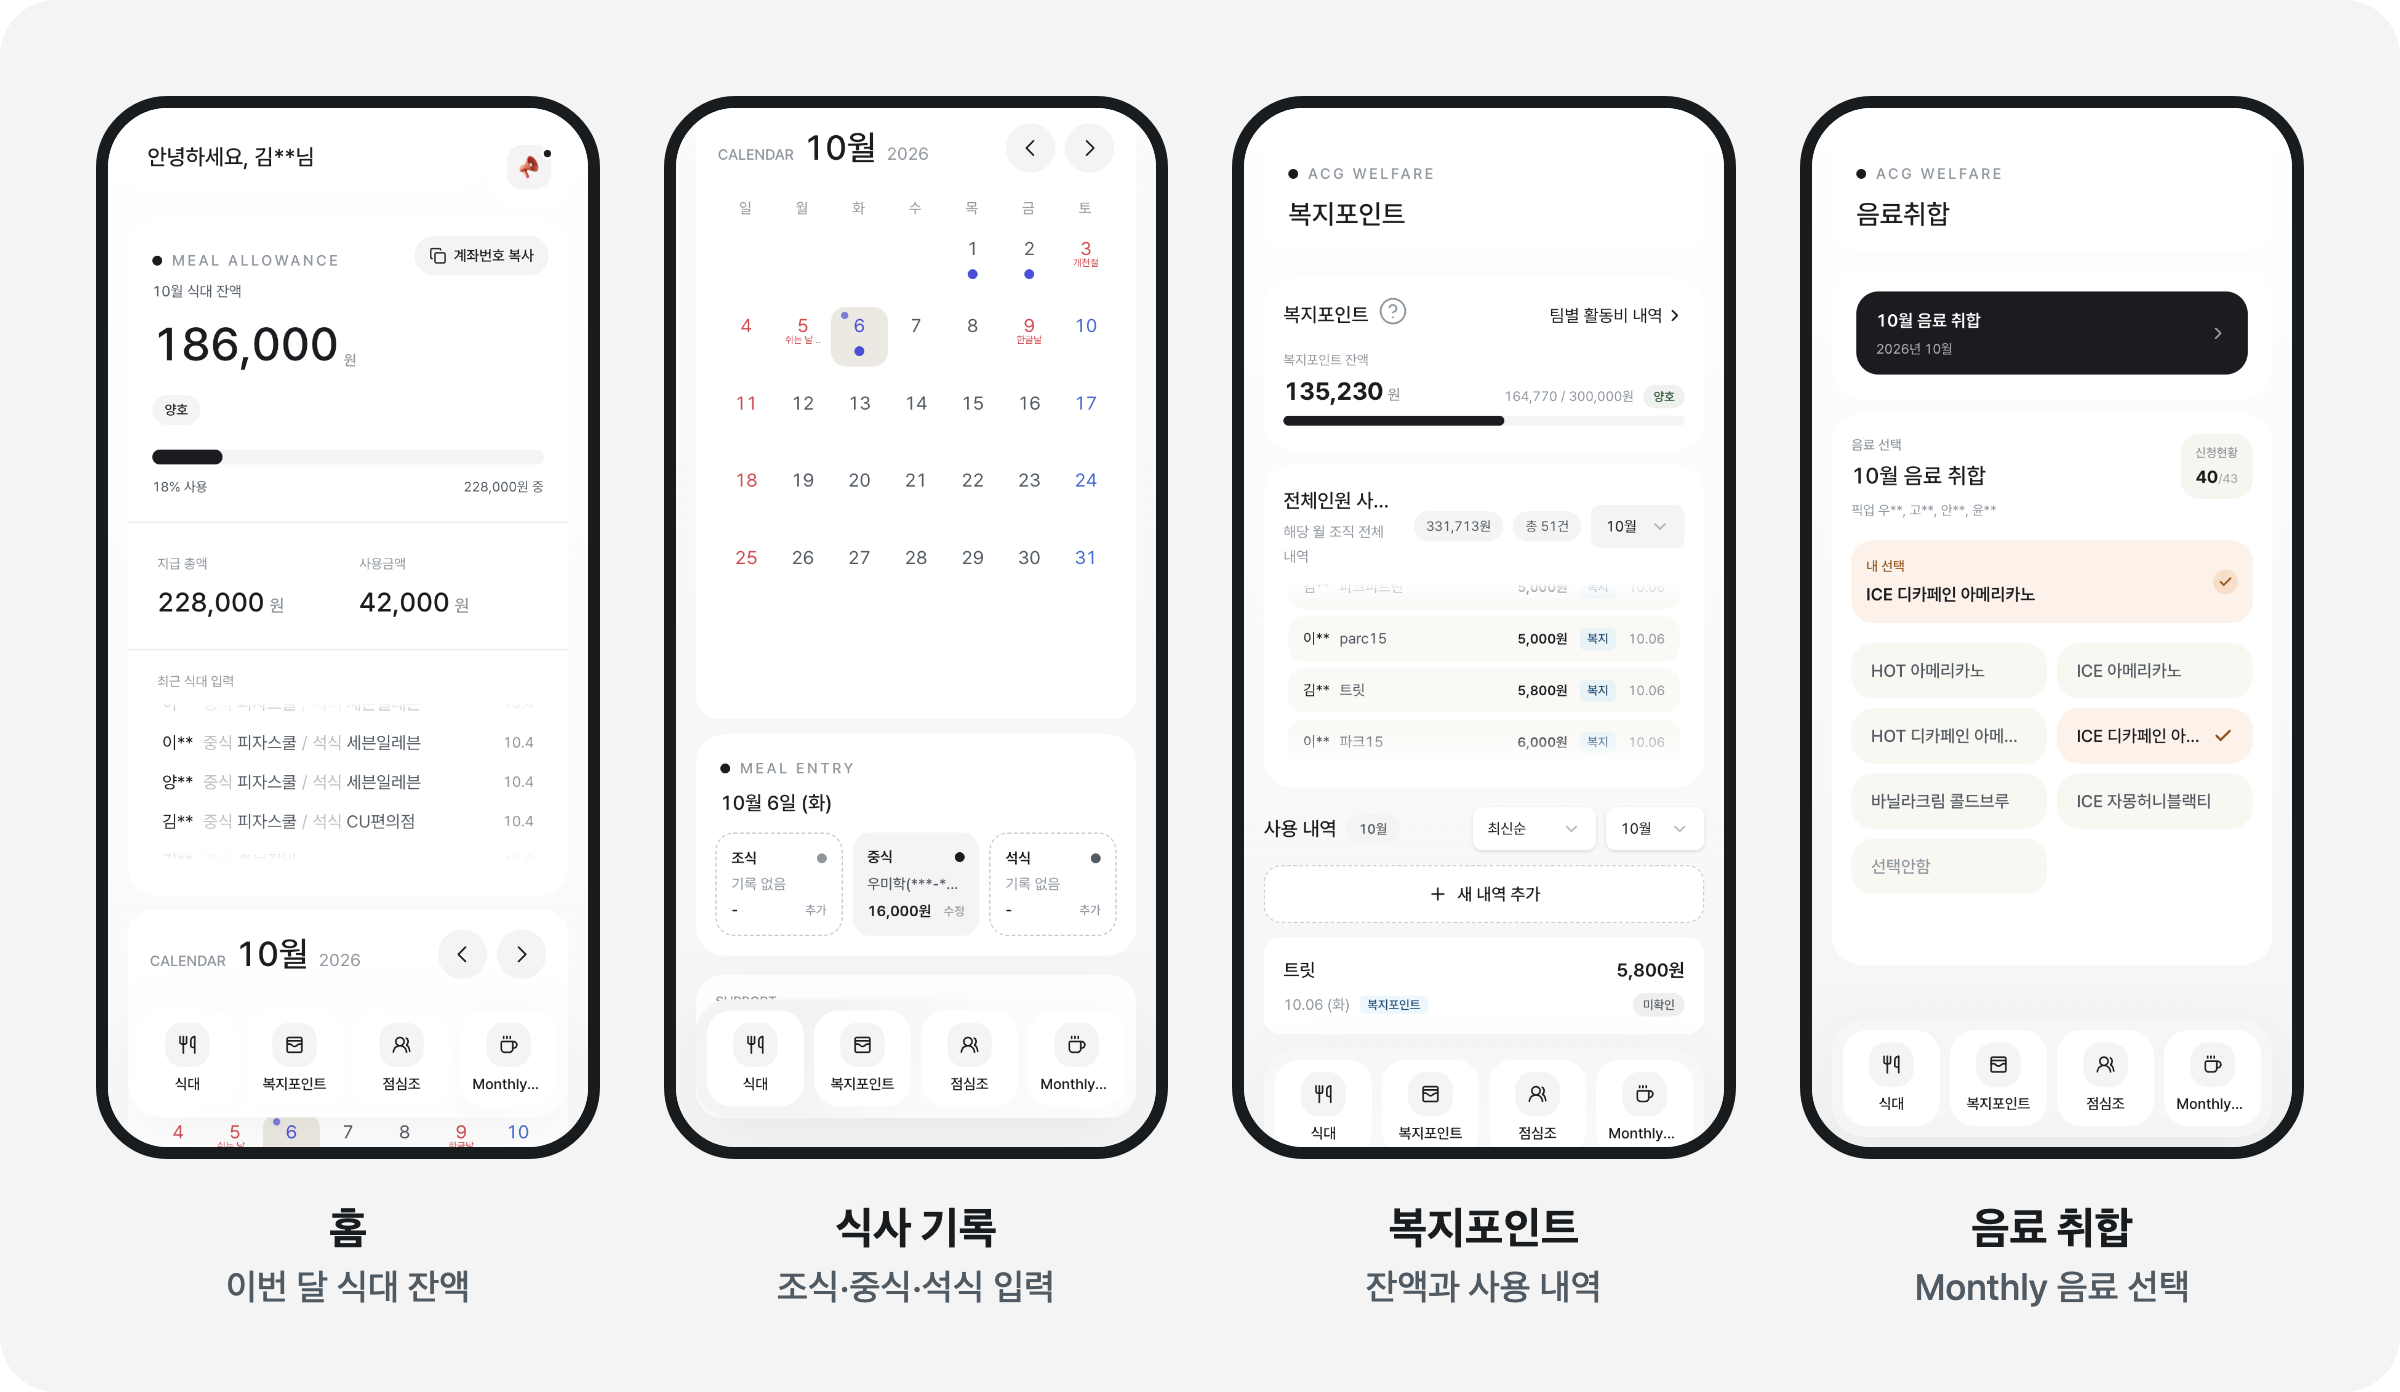
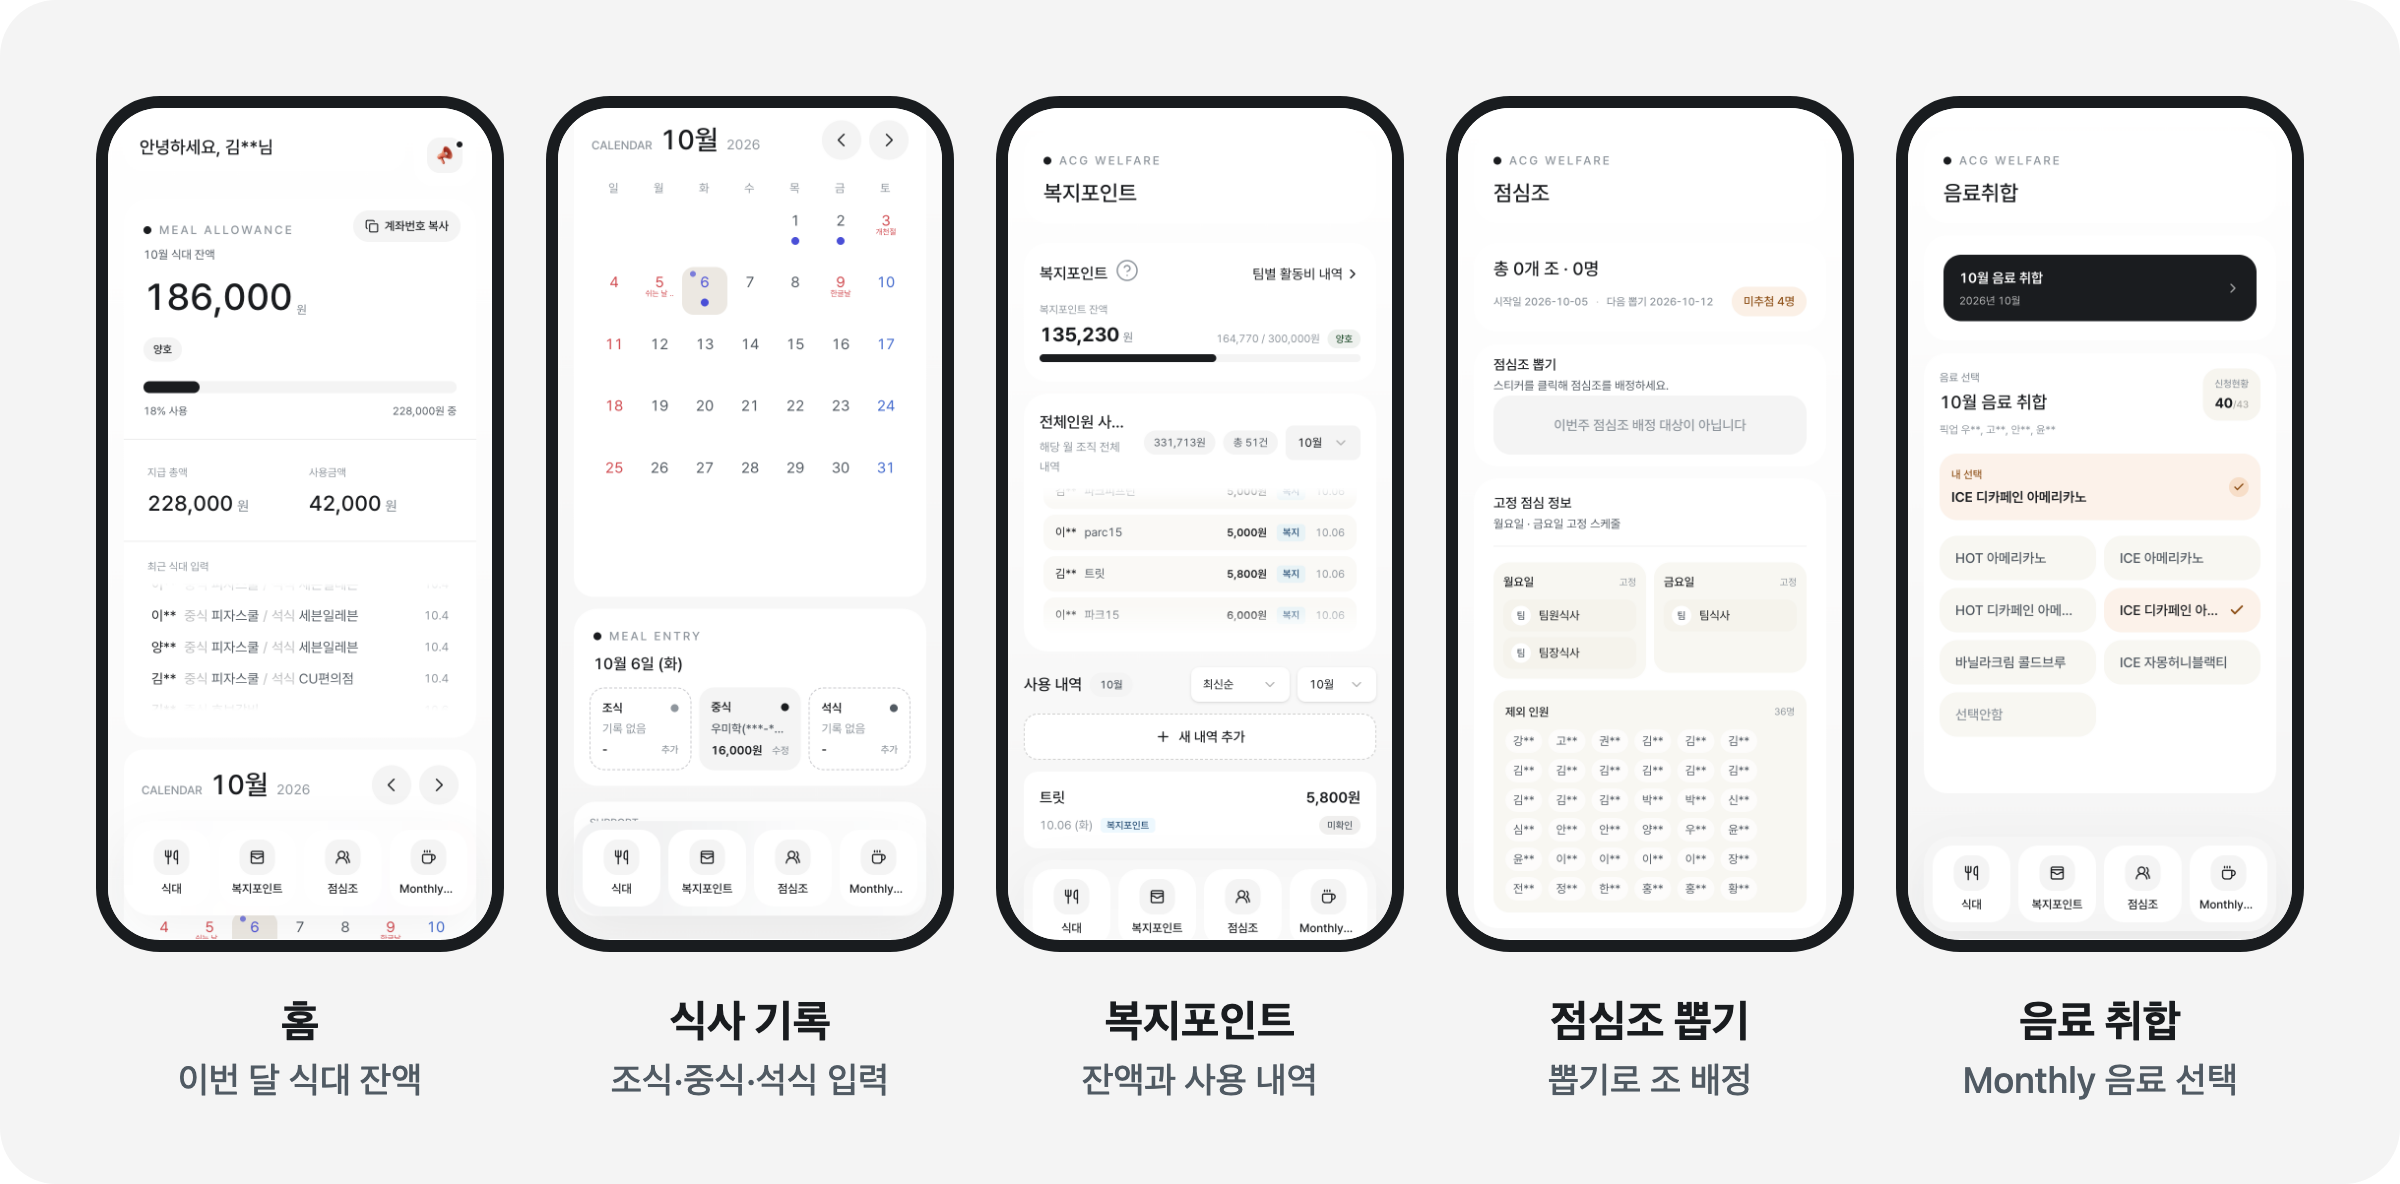
docs: User 앱 화면 보드에 점심조 뽑기 추가
- 보드를 네 장에서 다섯 장으로 변경 (홈, 식사 기록, 복지포인트, 점심조 뽑기, 음료 취합)

diff --git a/README.md b/README.md
@@ -17,7 +17,7 @@ ACG 임직원 40여 명이 쓰는 사내 복지관리 서비스입니다.
 **User 앱** — 직원이 휴대폰에 설치해 쓰는 PWA
 
 <p align="center">
-  <img src="./assets/readme/showcase-user.png" width="100%" alt="User 앱 화면 네 장. 이번 달 식대 잔액을 보여 주는 홈, 캘린더에서 조식·중식·석식을 입력하는 식사 기록, 복지포인트 잔액과 사용 내역, Monthly 음료 선택">
+  <img src="./assets/readme/showcase-user.png" width="100%" alt="User 앱 화면 다섯 장. 이번 달 식대 잔액을 보여 주는 홈, 캘린더에서 조식·중식·석식을 입력하는 식사 기록, 복지포인트 잔액과 사용 내역, 점심조 뽑기, Monthly 음료 선택">
 </p>
 
 **Admin 앱** — 관리자가 PC에서 쓰는 대시보드
